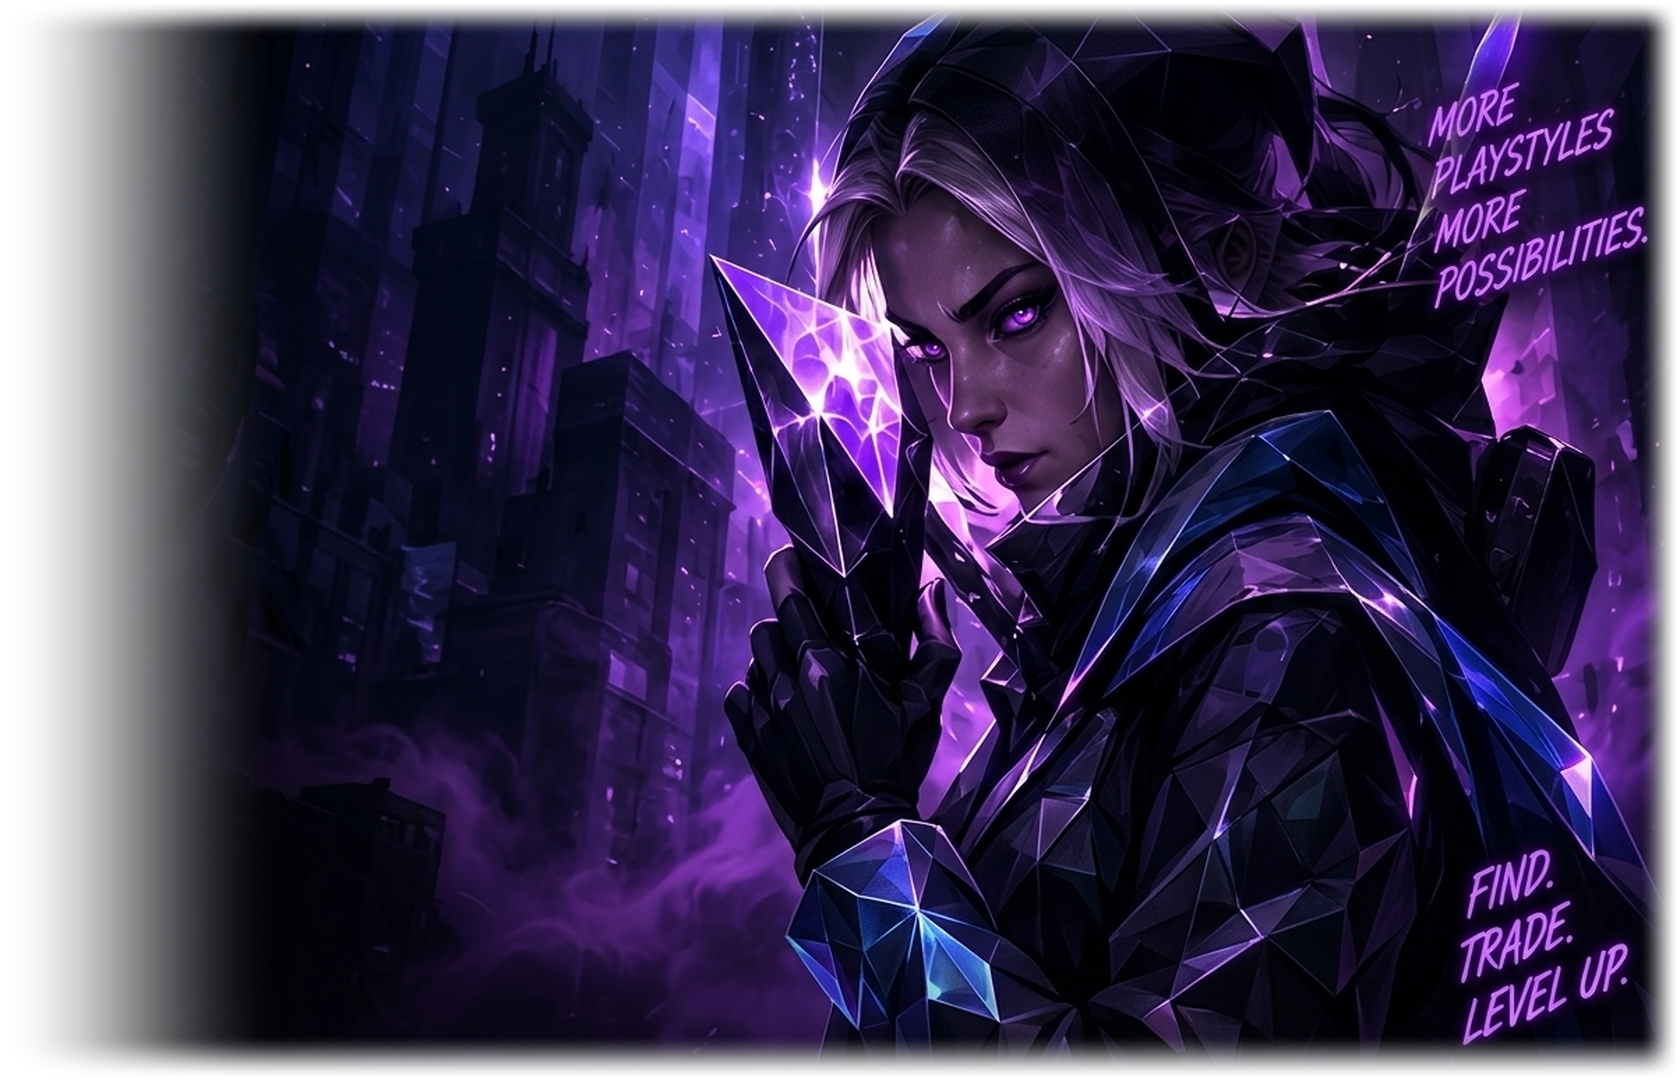
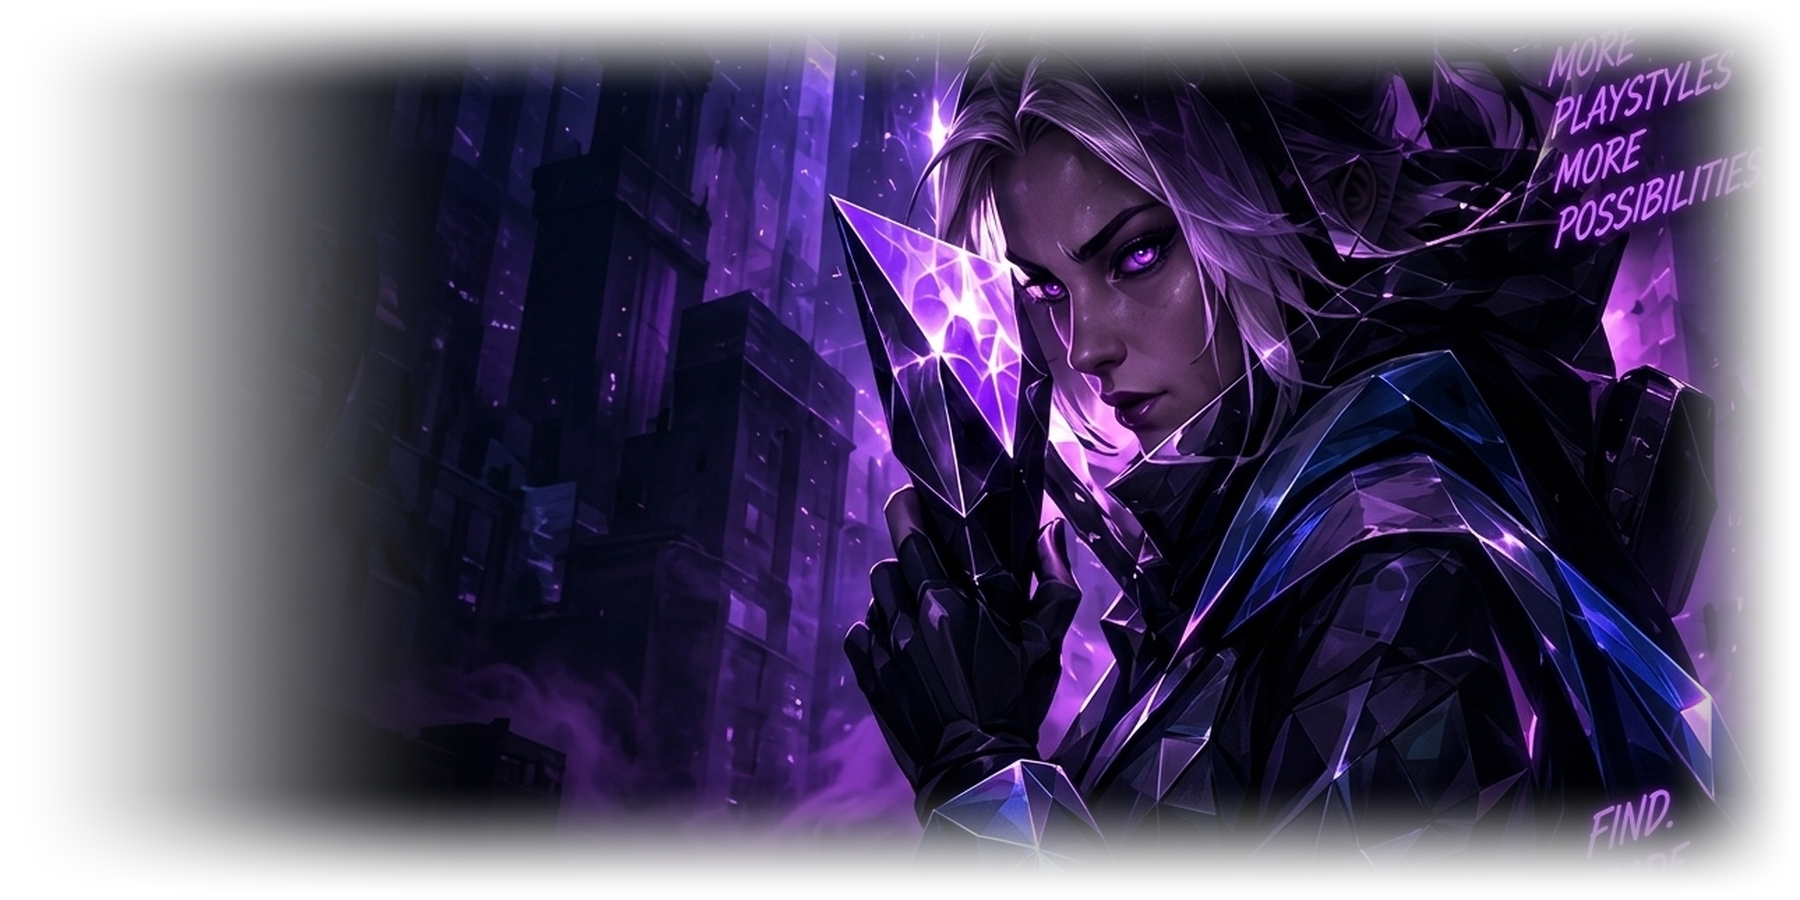
fix(ui): eliminate all rectangular box outlines with 2:1 asset and GPU radial mask

diff --git a/src/components/client/ClientHomePage.tsx b/src/components/client/ClientHomePage.tsx
@@ -188,17 +188,12 @@ export const ClientHomePage: React.FC<ClientHomePageProps> = ({
           </div>
 
           {/* Hero Art: Cinematic blend matching media_1789991734324.png with current compact shape, size, and position */}
-          <div className="relative w-full md:w-[480px] lg:w-[540px] xl:w-[580px] h-[250px] sm:h-[270px] lg:h-[290px] flex-shrink-0 flex items-center justify-end pointer-events-none select-none mt-2 md:mt-0">
+          <div className="relative w-full md:w-[480px] lg:w-[540px] xl:w-[580px] h-[240px] sm:h-[270px] lg:h-[290px] flex-shrink-0 flex items-center justify-end pointer-events-none select-none mt-2 md:mt-0">
             <img
               src="/assets/hires/hero_banner_cinematic_blend.png"
               alt="VIB Digital Profiles Heroine"
-              className="w-full h-full object-contain object-right select-none pointer-events-none opacity-95"
+              className="w-full h-full object-contain object-right select-none pointer-events-none opacity-95 [mask-image:radial-gradient(ellipse_95%_90%_at_65%_50%,black_45%,transparent_100%)] [-webkit-mask-image:radial-gradient(ellipse_95%_90%_at_65%_50%,black_45%,transparent_100%)]"
             />
-            {/* Soft left gradient overlay matching media_1789991734324.png */}
-            <div className="absolute inset-y-0 left-0 w-24 sm:w-36 bg-gradient-to-r from-[#05040a] via-[#05040a]/80 to-transparent pointer-events-none z-[1]" />
-            {/* Subtle top/bottom edge softening */}
-            <div className="absolute inset-x-0 top-0 h-4 bg-gradient-to-b from-[#05040a] to-transparent pointer-events-none z-[1]" />
-            <div className="absolute inset-x-0 bottom-0 h-6 bg-gradient-to-t from-[#05040a] to-transparent pointer-events-none z-[1]" />
           </div>
         </div>
       </section>
